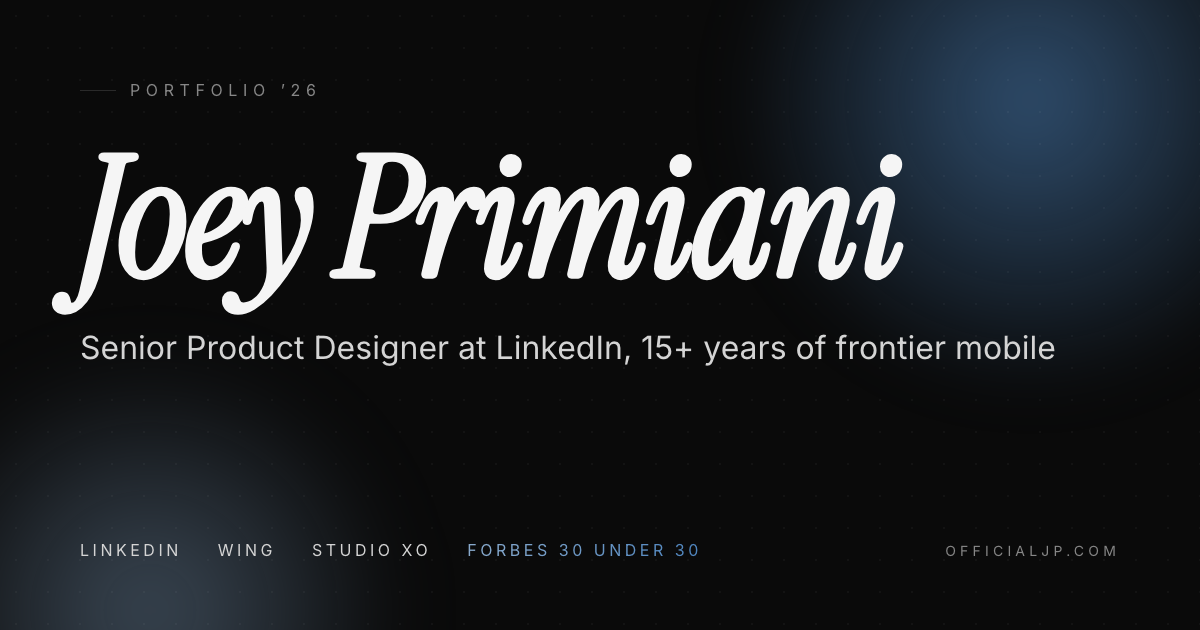
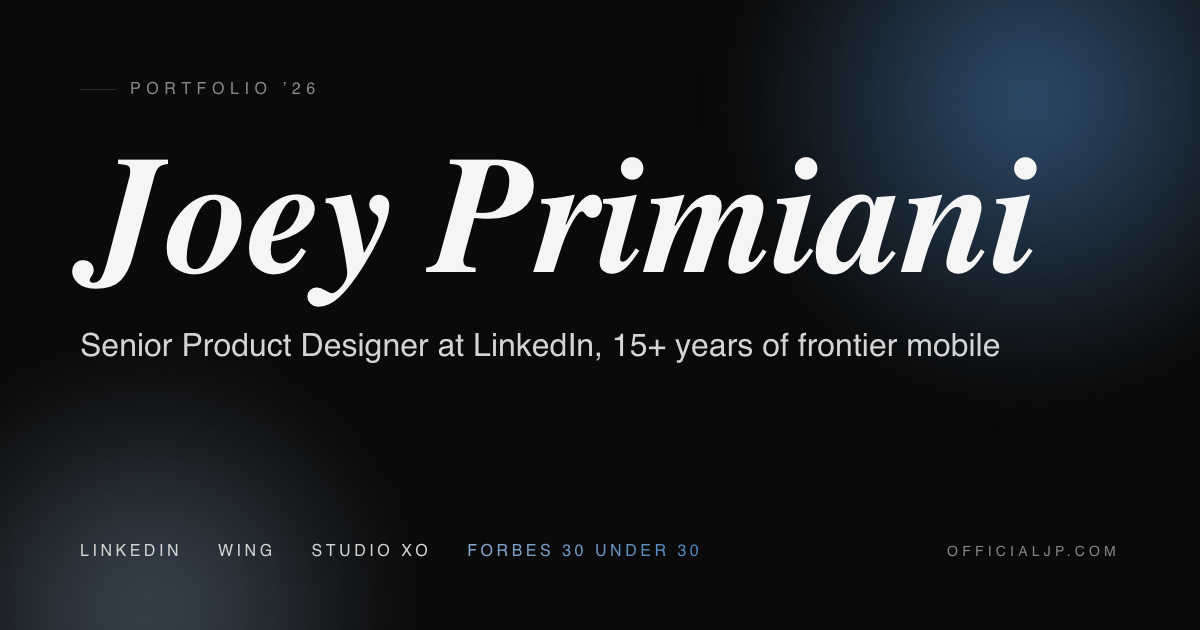
Joey Agent KB: January AI + Calendly + Patent; Wing case study hero video; OG card refresh; Konami easter egg

diff --git a/index.html b/index.html
@@ -1968,7 +1968,16 @@ function bootAskJoey(){
       a: "At Google X's Wing I led consumer mobile design for Alphabet's drone delivery moonshot. We designed for a behavior nobody had ever performed before — every assumption I started with was wrong by version three. The work contributed to one of the first FAA-approved drone delivery experiences in the U.S." },
 
     { keys: ['linkedin','premium','current','currently','what do you do','where do you work'],
-      a: "I'm a Senior Product Designer at LinkedIn, leading design for premium product experiences shipped to hundreds of millions of professionals. Lately I've been pushing AI-native prototyping across the org so teams can pressure-test ideas in hours instead of quarters." },
+      a: "I'm a Senior Product Designer at LinkedIn, leading design for premium product experiences shipped to hundreds of millions of professionals. Recent shipped work includes the <b>LinkedIn × Calendly</b> integration that lets Premium subscribers add a 'Book an appointment' button to their profile. I'm also pushing AI-native prototyping across the org." },
+
+    { keys: ['calendly','partnership','integration','book a meeting','book appointment','scheduling'],
+      a: "I led design on the <b>LinkedIn × Calendly</b> partnership. Premium subscribers can drop a 'Book an appointment' button on their profile, and a browser extension lets them schedule from LinkedIn Messaging, Sales Navigator, and Recruiter without leaving the page. <a href='https://calendly.com/integration/linkedin' target='_blank' style='color:#89AACC'>View the integration ↗</a>" },
+
+    { keys: ['january','january ai','food scan','food logging','glucose','cgm','nutrition','health'],
+      a: "I designed iOS for <b>January AI</b>, a clinical-grade AI nutrition platform. The headline feature is photo-based food scanning that predicts your glucose spike before you eat. I designed the scanning animation as a 3-beat sequence (capture, recognize, predict) and Jan, the in-app AI coach. 54M+ foods, 4.5★ App Store. <a href='https://january.ai/app' target='_blank' style='color:#89AACC'>Open the app ↗</a>" },
+
+    { keys: ['patent','invention','uspto','inventor','radial'],
+      a: "I'm a named inventor on <b>US Patent 8,869,068</b>, Content Sharing Application Utilizing Radially-Distributed Menus. Granted October 2014. Filed during my Backplane / Little Monsters era. Patents are rare for designers. <a href='https://patents.google.com/patent/US8869068B2' target='_blank' style='color:#89AACC'>View the patent ↗</a>" },
 
     { keys: ['linkedin ios','founding','early','founding mobile','2010','2011','2012'],
       a: "Founding-era LinkedIn iOS, 2010–2012. We re-architected LinkedIn for the touch era as a coherent mobile system: feed, profile, search, messaging. Scaled to 200M+ members. That's where I learned to think in systems rather than screens." },
@@ -2146,6 +2155,40 @@ bootAskJoey();
     cancelAnimationFrame(raf);
     tilt.style.transform = 'rotateY(0deg) rotateX(0deg)';
   });
+})();
+
+/* ============ EASTER EGG: KONAMI CODE ============ */
+(function konami(){
+  const seq = ['ArrowUp','ArrowUp','ArrowDown','ArrowDown','ArrowLeft','ArrowRight','ArrowLeft','ArrowRight','b','a'];
+  let i = 0;
+  document.addEventListener('keydown', (e) => {
+    const k = e.key.length === 1 ? e.key.toLowerCase() : e.key;
+    if (k === seq[i]) {
+      i++;
+      if (i === seq.length) {
+        i = 0;
+        fireKonami();
+      }
+    } else {
+      i = (k === seq[0]) ? 1 : 0;
+    }
+  });
+  function fireKonami(){
+    const flash = document.createElement('div');
+    flash.style.cssText = 'position:fixed;inset:0;z-index:9999;pointer-events:none;background:linear-gradient(120deg,#ff6b9d,#c779ff,#6b9dff,#6bd9c5,#ffd966,#ff8c6b);opacity:0;mix-blend-mode:screen;transition:opacity .4s ease;';
+    const toast = document.createElement('div');
+    toast.textContent = '✦ welcome to the future ✦';
+    toast.style.cssText = 'position:fixed;bottom:24%;left:50%;transform:translateX(-50%);z-index:10000;font-family:"Instrument Serif",serif;font-style:italic;font-size:48px;color:#fff;text-shadow:0 4px 24px rgba(0,0,0,0.6);opacity:0;transition:opacity .5s ease,transform .8s cubic-bezier(.22,1,.36,1);';
+    document.body.appendChild(flash);
+    document.body.appendChild(toast);
+    requestAnimationFrame(() => {
+      flash.style.opacity = '0.5';
+      toast.style.opacity = '1';
+      toast.style.transform = 'translateX(-50%) translateY(-12px)';
+    });
+    setTimeout(() => { flash.style.opacity = '0'; toast.style.opacity = '0'; }, 2200);
+    setTimeout(() => { flash.remove(); toast.remove(); }, 2800);
+  }
 })();
 
 /* ============ SMOOTH SCROLL FOR ANCHORS (delegated, custom easing + land flash) ============ */

diff --git a/case-study.html b/case-study.html
@@ -317,6 +317,7 @@ const CASES = {
     location: 'Mountain View / SF',
     headline: 'Designing the first FAA-approved drone delivery experience, for a behavior people had never experienced before.',
     hero: 'https://images.higgs.ai/?default=1&output=webp&url=https%3A%2F%2Fd8j0ntlcm91z4.cloudfront.net%2Fuser_38xzZboKViGWJOttwIXH07lWA1P%2Fhf_20260412_055654_911201c5-36d9-4bc6-bac7-331adfce159f.png&w=1280&q=85',
+    heroVideo: 'opensky.mp4',
     stats: [
       { k: 'FAA-approved deployments', v: 'First in the U.S.' },
       { k: 'New consumer behavior', v: 'From scratch' },
